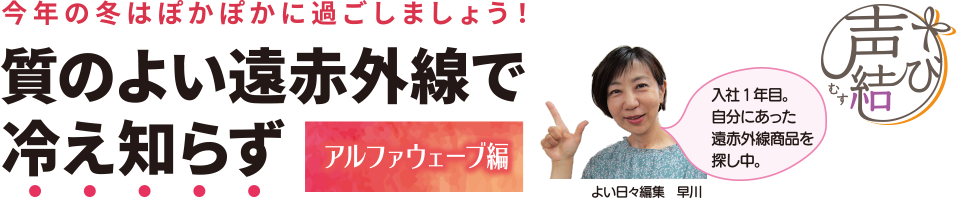
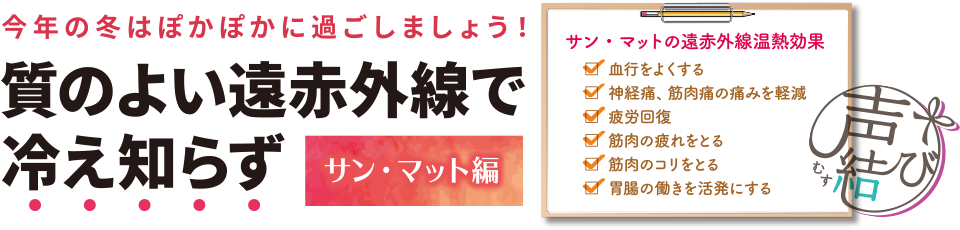
fix

diff --git a/userweb/feature/1911KOE/parts/2.php b/userweb/feature/1911KOE/parts/2.php
@@ -56,7 +56,7 @@
 .fl-r {display: block; width: 100%; margin: 0; padding: 0;}
 .l-2-3 { width: 100%; margin-bottom: 40px;}
 
-#toku-ttl2 { background: url('https://aladdinec.jp/client_info/FLORAHOUSE01/view/userweb/images/feature/1910KOE/sp12.jpg') center top 16% no-repeat; background-size: 100%;}
+#toku-ttl2 { background: url('https://aladdinec.jp/client_info/FLORAHOUSE01/view/userweb/images/feature/1911KOE/sp12.jpg') center top 16% no-repeat; background-size: 100%;}
 
 /*おすすめ商品*/
 .camp_stock { width: 50%!important;}
@@ -76,77 +76,54 @@
 <!--★削除禁止★ -->
 
 <div class="column_head">
-  <img src="https://aladdinec.jp/client_info/FLORAHOUSE01/view/userweb/images/feature/1910KOE/title.png" class="spnone">
-  <img src="https://aladdinec.jp/client_info/FLORAHOUSE01/view/userweb/images/feature/1910KOE/title_s.png" class="pcnone">
+  <img src="https://aladdinec.jp/client_info/FLORAHOUSE01/view/userweb/images/feature/1911KOE/title.png" class="spnone">
+  <img src="https://aladdinec.jp/client_info/FLORAHOUSE01/view/userweb/images/feature/1911KOE/title_s.png" class="pcnone">
   <div class="intoroduction">
-寒さ対策は万全ですか？ 声結びでは、からだが芯から温まる遠赤外線商品について３号連続で特集します。今月は、電気を使わない「アルファウェーブ」。アルファウェーブは、「使い始めてライフスタイルが変わった」というお声をいただく人気シリーズです。他の皆さんの使い方を参考に、今年の冬は冷え知らずで過ごしませんか？
+  今月は、医療認可も受けている『サン・マット』をご紹介します。『サン・マット』は、医療機関向けの遠赤外線温熱治療器を、家庭でも使えるように作られたものです。身に着けているだけでからだをやさしく温めて、血液の巡りをよくします。低温やけどの心配もありませんので、寝たきりの方の温熱療法にもおすすめです。
   </div>
 </div>
 
 <div class="article_detail_mokuji">
   <p><img src="//d2mxjn1ymx4y84.cloudfront.net/client_info/FLORAHOUSE01/itemimage/1811OGAT/yomimono_mokuji.png" alt=""></p>
   <ul>
-    <a href="#toku-ttl1"><li>スクエアパッド｜5層キルティング構造で温かさが持続</li></a>
-    <a href="#toku-ttl2"><li>パイルケット｜夏はタオルケット、冬は毛布感覚で使える</li></a>
-    <a href="#toku-ttl4"><li>肩パッド・ロング｜肩と背中にしっかりフィット</li></a>
-    <a href="#toku-ttl5"><li>サポート腹巻｜薄手でよく伸び、お腹を包み込む</li></a>
-    <a href="#toku-ttl5"><li>スパッツ｜程よいフィット感で下半身から温める</li></a>
-    <a href="#toku-ttl3"><li>「アルファウェーブ」温かさのメカニズム</li></a>
+    <a href="#toku-ttl1"><li>サン・マット 敷きタイプ</li></a>
+    <a href="#toku-ttl2"><li>サン・マット 巻き付けタイプ</li></a>
+    <a href="#toku-ttl3"><li>『サン・マット』での集中温熱は、健康への近道！</li></a>
   </ul>
 </div>
 
 <div class="column_100img" id="toku-ttl1">
-	<img src="https://aladdinec.jp/client_info/FLORAHOUSE01/view/userweb/images/feature/1910KOE/pc1.png" class="spnone" alt="スクエアパッド｜5層キルティング構造で温かさが持続｜アルファウエーブ">
-  <img src="https://aladdinec.jp/client_info/FLORAHOUSE01/view/userweb/images/feature/1910KOE/sp1.png" class="pcnone" alt="スクエアパッド｜5層キルティング構造で温かさが持続｜アルファウエーブ">
+	<img src="https://aladdinec.jp/client_info/FLORAHOUSE01/view/userweb/images/feature/1911KOE/pc1.png" class="spnone" alt="サン・マット 敷きタイプ">
+  <img src="https://aladdinec.jp/client_info/FLORAHOUSE01/view/userweb/images/feature/1911KOE/sp1.png" class="pcnone" alt="サン・マット 敷きタイプ">
+  <img src="https://aladdinec.jp/client_info/FLORAHOUSE01/view/userweb/images/feature/1911KOE/sp1_2.png" class="pcnone" alt="サン・マット 敷きタイプ">
 </div>
 
 <div class="column_100img" id="toku-ttl2">
-  <img src="https://aladdinec.jp/client_info/FLORAHOUSE01/view/userweb/images/feature/1910KOE/pc2.png" class="spnone" alt="パイルケット｜夏はタオルケット、冬は毛布感覚で使える｜アルファウエーブ">
-  <img src="https://aladdinec.jp/client_info/FLORAHOUSE01/view/userweb/images/feature/1910KOE/sp2.png" class="pcnone" alt="パイルケット｜夏はタオルケット、冬は毛布感覚で使える｜アルファウエーブ">
-</div>
-
-<div class="column_100img" id="toku-ttl4">
-  <img src="https://aladdinec.jp/client_info/FLORAHOUSE01/view/userweb/images/feature/1910KOE/pc4.png" class="spnone" alt="肩パッド・ロング｜肩と背中にしっかりフィット｜アルファウエーブ">
-  <img src="https://aladdinec.jp/client_info/FLORAHOUSE01/view/userweb/images/feature/1910KOE/sp4.png" class="pcnone" alt="肩パッド・ロング｜肩と背中にしっかりフィット｜アルファウエーブ">
-</div>
-
-<div class="column_100img" id="toku-ttl5">
-  <img src="https://aladdinec.jp/client_info/FLORAHOUSE01/view/userweb/images/feature/1910KOE/pc6.png" class="spnone" alt="サポート腹巻｜5層キルティング構造で温かさが持続｜スパッツ｜程よいフィット感で下半身から温める｜アルファウエーブ">
-  <img src="https://aladdinec.jp/client_info/FLORAHOUSE01/view/userweb/images/feature/1910KOE/sp5.png" class="pcnone" alt="サポート腹巻｜5層キルティング構造で温かさが持続｜アルファウエーブ">
-  <img src="https://aladdinec.jp/client_info/FLORAHOUSE01/view/userweb/images/feature/1910KOE/sp6.png" class="pcnone" alt="スパッツ｜程よいフィット感で下半身から温める｜アルファウエーブ">
-  <img src="https://aladdinec.jp/client_info/FLORAHOUSE01/view/userweb/images/feature/1910KOE/sp7.png" class="pcnone" alt="">
+  <img src="https://aladdinec.jp/client_info/FLORAHOUSE01/view/userweb/images/feature/1911KOE/pc2.png" class="spnone" alt="サン・マット 巻き付けタイプ">
+  <img src="https://aladdinec.jp/client_info/FLORAHOUSE01/view/userweb/images/feature/1911KOE/sp2.png" class="pcnone" alt="サン・マット 巻き付けタイプ">
+  <img src="https://aladdinec.jp/client_info/FLORAHOUSE01/view/userweb/images/feature/1911KOE/sp2_2.png" class="pcnone" alt="サン・マット 巻き付けタイプ">
 </div>
 
 <div class="column_100img" id="toku-ttl3">
-  <img src="https://aladdinec.jp/client_info/FLORAHOUSE01/view/userweb/images/feature/1910KOE/pc3.png" class="spnone" alt="アルファウェーブ」温かさのメカニズム">
-  <img src="https://aladdinec.jp/client_info/FLORAHOUSE01/view/userweb/images/feature/1910KOE/sp3.png" class="pcnone" alt="アルファウェーブ」温かさのメカニズム">
+  <img src="https://aladdinec.jp/client_info/FLORAHOUSE01/view/userweb/images/feature/1911KOE/pc3.png" class="spnone" alt="『サン・マット』での集中温熱は、健康への近道！">
+  <img src="https://aladdinec.jp/client_info/FLORAHOUSE01/view/userweb/images/feature/1911KOE/sp3.png" class="pcnone" alt="『サン・マット』での集中温熱は、健康への近道！">
 </div>
 
 <div class="camp_stock_area">
 
+  <div class="camp_stock"><a href="https://yoihibi.jp/item/SUNMAT.html" target="_blank">
+  <p class="camp_stock_img"><img src="https://dbcn1bdvswqbx.cloudfront.net/client_info/FLORAHOUSE01/itemimage/syouhin/sunmat_camp.jpg"></p>
+  <p class="camp_stock_txt">サン・マット 各種</p>
+  </a></div>
+
   <div class="camp_stock"><a href="https://yoihibi.jp/item/ARUSQP.html" target="_blank">
   <p class="camp_stock_img"><img src="https://dbcn1bdvswqbx.cloudfront.net/client_info/FLORAHOUSE01/itemimage/syouhin/arusqp.jpg"></p>
-  <p class="camp_stock_txt">アルファウェーブ スクエアパッド</p>
-  </a></div>
-
-  <div class="camp_stock"><a href="https://yoihibi.jp/item/ARUPAI.html" target="_blank">
-  <p class="camp_stock_img"><img src="https://dbcn1bdvswqbx.cloudfront.net/client_info/FLORAHOUSE01/itemimage/syouhin/arupai.jpg"></p>
-  <p class="camp_stock_txt">アルファウェーブ パイルケット</p>
-  </a></div>
-
-  <div class="camp_stock"><a href="https://yoihibi.jp/item/ARUKAT.html" target="_blank">
-  <p class="camp_stock_img"><img src="https://dbcn1bdvswqbx.cloudfront.net/client_info/FLORAHOUSE01/itemimage/syouhin/arukat.jpg"></p>
-  <p class="camp_stock_txt">アルファウェーブ 肩パッド・ロング</p>
+  <p class="camp_stock_txt">アルファウェーブスクエアパッド</p>
   </a></div>
 
   <div class="camp_stock"><a href="https://yoihibi.jp/item/ARUSUP.html" target="_blank">
   <p class="camp_stock_img"><img src="https://dbcn1bdvswqbx.cloudfront.net/client_info/FLORAHOUSE01/itemimage/syouhin/aw12n00.jpg"></p>
   <p class="camp_stock_txt">アルファウェーブ サポート腹巻</p>
-  </a></div>
-
-  <div class="camp_stock"><a href="https://yoihibi.jp/item/ARUSUP.html" target="_blank">
-  <p class="camp_stock_img"><img src="https://dbcn1bdvswqbx.cloudfront.net/client_info/FLORAHOUSE01/itemimage/syouhin/aw14n00.jpg"></p>
-  <p class="camp_stock_txt">アルファウェーブ スパッツ</p>
   </a></div>
 
 </div>

diff --git a/userweb/feature/1911KOE/index.php b/userweb/feature/1911KOE/index.php
@@ -1,6 +1,6 @@
 <?php
-$stock_id = '1910KOE';
-$site_title = '声結び 今年の冬はぽかぽかに過ごしましょう！質のよい遠赤外線で冷え知らず アルファウェーブ編';
+$stock_id = '1911KOE';
+$site_title = '声結び 今年の冬はぽかぽかに過ごしましょう！質のよい遠赤外線で冷え知らず サン・マット編';
 //$Path = 'https://aladdinec.jp/client_info/FLORAHOUSE01/view/userweb/images/feature/1905KOE/';
 $Path = './img/';
 include('../loop.php');
